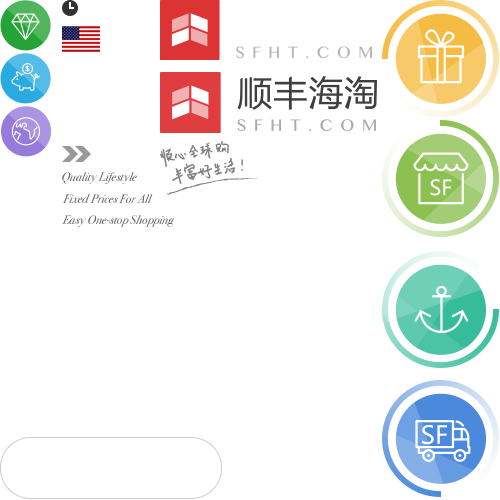
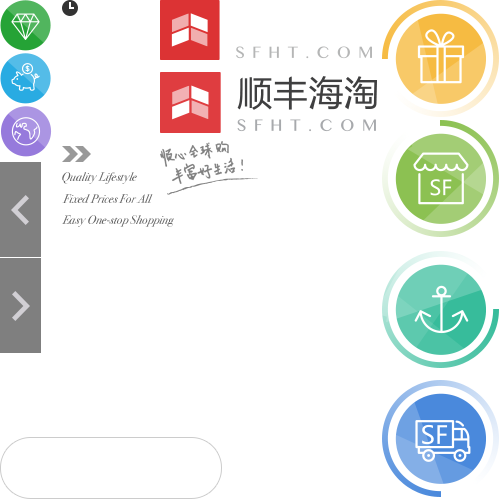
[dev]slide的功能

Changed region(s): [[0.0, 0.3, 0.09, 0.72], [0.12, 0.03, 0.21, 0.12]]

diff --git a/app/scripts/widget/sf.b2c.mall.widget.slide.js b/app/scripts/widget/sf.b2c.mall.widget.slide.js
@@ -1,0 +1,109 @@
+define(
+  'sf.b2c.mall.widget.slide',
+
+  [
+    'jquery',
+    'can'
+  ],
+
+  function ($, can) {
+    return can.Control.extend({
+
+      init: function (element, options) {
+        this.options.sliderIndex = 0;
+        this.render(this.options);
+      },
+
+      /**
+       * @description 向前浏览banner
+       */
+      sliderPreving: function(){
+        this.options.sliderIndex--;
+
+        if(this.options.sliderIndex < 0){
+          var length = this.element.find('.slider-img li').length;
+          this.options.sliderIndex = length-1;
+        }
+
+        this.sliderSwitch();
+      },
+
+      /**
+       * @description 向后浏览banner
+       */
+      sliderNexting: function(){
+        this.options.sliderIndex++;
+
+        var length = this.element.find('.slider-img li').length;
+        if(this.options.sliderIndex > length-1){
+          this.options.sliderIndex = 0;
+        }
+
+        this.sliderSwitch();
+      },
+
+      /**
+       * @description 切换banner的内容
+       */
+      sliderSwitch: function(){
+        this.element.find('.slider-num li').removeClass('active').eq(this.options.sliderIndex).addClass("active");
+        this.element.find('.slider-img li').removeClass('active').eq(this.options.sliderIndex).addClass("active");
+      },
+
+      hoverOver: function (element, event) {
+        this.element.find('.slider .btn-prev').stop(true, false).animate({ left:  0, opacity: 1 }, 500);
+        this.element.find('.slider .btn-next').stop(true, false).animate({ right: 0, opacity: 1 }, 500);
+        clearInterval(this.options.silderTimer);
+      },
+
+      hoverOut: function (element, event) {
+        this.element.find('.slider .btn-prev').stop(true, false).animate({ left:  '-100px', opacity: 0 }, 500);
+        this.element.find('.slider .btn-next').stop(true, false).animate({ right: '-100px', opacity: 0 }, 500);
+        this.options.silderTimer=setInterval(_.bind(this.sliderNexting, this),5000);
+      },
+
+      '.slider .btn-prev click': function (element, event) {
+        this.sliderPreving();
+      },
+
+      '.slider .btn-next click': function (element, event) {
+        this.sliderNexting();
+      },
+
+      '.slider-num li click': function (element, event) {
+        this.options.sliderIndex = this.element.find('.slider-num li').index(element);
+        this.sliderSwitch();
+        clearInterval(this.options.silderTimer);
+      },
+
+      template: function () {
+        return  '<div class="slider">' +
+                  '<ul class="slider-img">' +
+                    '{{#imgs}}' +
+                    '<li><a href="{{url}}" style="background-image: url({{imgUrl}})"></a></li>' +
+                    '{{/imgs}}' +
+                  '</ul>' +
+                  '<ul class="slider-num">'+
+                    '{{#imgs}}' +
+                      '<li><a href="###"></a></li>' +
+                    '{{/imgs}}' +
+                  '</ul>' +
+                  '<div class="pm">' +
+                    '<a href="###" class="btn btn-prev">向前</a>' +
+                    '<a href="###" class="btn btn-next">向后</a>' +
+                  '</div>' +
+                '</div>'
+      },
+
+      render: function () {
+        // this.element.html(this.options.tpl, this.options);
+        var template = can.view.mustache(this.template())
+        this.element.html(template(this.options));
+
+        this.options.silderTimer = setInterval(_.bind(this.sliderNexting, this), 5000);
+        this.element.hover(_.bind(this.hoverOver, this), _.bind(this.hoverOut, this));
+        this.element.find('.slider-img li').eq(0).addClass('active');
+        this.element.find('.slider-num li').eq(0).addClass('active');
+      }
+    });
+  })

diff --git a/app/css/style.css b/app/css/style.css
@@ -9,7 +9,7 @@
 .nav li{
 	float: left;
 	font-size: 18px;
-	
+
 }
 .nav-c1{
 	margin-left: -40px;
@@ -31,6 +31,7 @@
 .nav-c2 .icon{
 	margin-left: 9px;
 	vertical-align: -10px;
+	*vertical-align: -5px;
 }
 
 /*头部*/
@@ -127,12 +128,86 @@
 /*slider*/
 .slider{
 	margin-bottom: 65px;
+	position: relative;;
 }
-.slider li a{
+.slider .pm{
+	height: 420px;
+	position: relative;
+}
+.slider-img{
+	position: absolute;
+	width: 100%;
+	height: 420px;
+	left: 0;
+	top: 0;
+}
+.slider-img li{
+	position: absolute;
+	width: 100%;
+	opacity: 0;
+	filter: alpha(opacity=0);
+	-webkit-transition: opacity 1s;
+	-moz-transition: opacity 1s;
+	-ms-transition: opacity 1s;
+	transition: opacity 1s;
+}
+.slider-img .active{
+	opacity: 1;
+	filter: alpha(opacity=100);
+}
+.slider-img li a{
 	display: block;
 	height: 420px;
 	background-position: center;
 	background-repeat: no-repeat;
+}
+.slider-img img{
+	width: 100%;
+}
+.slider-num{
+	text-align: center;
+	width: 100%;
+	top: 396px;
+	position: absolute;
+	left: 0;
+	z-index: 2;
+}
+.slider-num li{
+	display: inline-block;
+	*display: inline;
+	*zoom:1;
+	margin: 0 2px;
+}
+.slider-num a{
+	display: block;
+	width: 30px;
+	height: 0;
+	padding-top: 4px;
+	overflow: hidden;
+	background: #fff;
+	opacity: 0.5;
+	filter: alpha(opacity=50);
+}
+.slider-num .active a{
+	opacity: 1;
+	filter: alpha(opacity=100);
+}
+.slider .btn{
+	position: absolute;
+	z-index: 2;
+	top: 151px;
+}
+.slider .btn-prev{
+	left: -100px;
+	opacity: 0;
+	filter: alpha(opacity=0);
+
+}
+.slider .btn-next{
+	right: -100px;
+	opacity: 0;
+	filter: alpha(opacity=0);
+
 }
 
 /*product*/
@@ -155,6 +230,7 @@
 	padding: 0 7px 4px;
 	margin-right: 39px;
 	font-size: 18px;
+
 }
 .product-tab li:hover{
 	border-bottom: 4px solid #DD3E3F;
@@ -175,6 +251,10 @@
 .product-list li:hover .product-r3{
 	background: #DD3E3F;
 	color: #fff;
+	-webkit-transition: all 0.5s;
+	-moz-transition: all 0.5s;
+	-ms-transition: all 0.5s;
+	transition: all 0.5s;
 }
 .product-list li:hover .product-r3 strong{
 	color: #fff;
@@ -237,7 +317,7 @@
 	font-size: 24px;
 }
 .product-r3c1 del{
-	
+
 	color:#949494;
 	font-size: 14px;
 }

diff --git a/app/scripts/page/sf.b2c.mall.page.main.js b/app/scripts/page/sf.b2c.mall.page.main.js
@@ -6,14 +6,17 @@ require(
     'sf.b2c.mall.component.header',
     'sf.b2c.mall.component.footer',
     'sf.b2c.mall.component.limitedtimesale',
-    'sf.b2c.mall.component.rapidseabuy'
+    'sf.b2c.mall.component.rapidseabuy',
+    'sf.b2c.mall.widget.slide'
   ],
 
-  function(can, Header, Footer, LimitedTimeSale, RapidSeaBuy) {
+  function(can, Header, Footer, LimitedTimeSale, RapidSeaBuy, SFSlide) {
 
     var home = can.Control.extend({
 
       init: function(element, options) {
+        this.component = {};
+
         this.render();
         this.supplement();
       },
@@ -22,6 +25,14 @@ require(
 
         //new Header('.sf-b2c-mall-header');
         new Footer('.sf-b2c-mall-footer');
+
+        this.component.slide = new SFSlide('.sf-b2c-mall-main-slider', {
+          imgs: [
+            {imgUrl: 'img/banner1.jpg', url: 'http://www.google.com'},
+            {imgUrl: 'img/banner2.jpg', url: 'http://www.baidu.com'}
+          ]
+        });
+
         new LimitedTimeSale('.sf-b2c-mall-limitedtimesale');
         new RapidSeaBuy('.sf-b2c-mall-rapidseabuy');
       },

diff --git a/app/css/reset.css b/app/css/reset.css
@@ -22,6 +22,7 @@ a,a:hover{color:#333;}
 img{vertical-align: middle;}
 .fl{float:left;}
 .fr{float:right;}
+.clearfix:before,
 .clearfix:after{content:'';display:table; clear:both;}
 .clearfix{*zoom:1;}
 /*icon*/
@@ -175,10 +176,24 @@ img{vertical-align: middle;}
 	border-radius: 30px;
 	border:1px solid #ccc;
 	background: #fff;
-	*background: url(../img/icon.png) no-repeat 0 -437px;
-	*border: none;
-	*width: 222px;
-	*height: 62px;
+	background: url(../img/icon.png) no-repeat 0 -437px \9;
+	border: none \9;
+	width: 222px \9;
+	height: 62px \9;
+}
+.btn-prev,
+.btn-next{
+	width: 41px;
+	height: 95px;
+	background: url(../img/icon.png) no-repeat;
+	text-indent: -999em;
+
+}
+.btn-prev{
+	background-position: 0 -162px;
+}
+.btn-next{
+	background-position: 0 -258px;
 }
 
 body{

diff --git a/app/index.html b/app/index.html
@@ -13,11 +13,7 @@
   <div class="sf-b2c-mall-header"></div>
 
   <div class="pb">
-    <div class="slider">
-      <ul>
-        <li><a href="" style="background-image: url(img/banner.jpg)"></a></li>
-      </ul>
-    </div>
+    <div class="sf-b2c-mall-main-slider"></div>
     <div class="pm">
       <!--限时特卖-->
       <div class="sf-b2c-mall-limitedtimesale"></div>
@@ -33,8 +29,9 @@
 
   <!--尾部-->
   </div>
+
   <script src="bower_components/requirejs/require.js"></script>
-  <script src="scripts/base/sf.web.ver1.0.build1418273546702.js"></script>
+  <script src="scripts/base/sf.web.ver1.0.build1418562440578.js"></script>
   <script src="scripts/sf.b2c.mall.require.config.js"></script>
   <script src="scripts/page/sf.b2c.mall.page.main.js"></script>
 

diff --git a/app/scripts/sf.b2c.mall.require.config.js b/app/scripts/sf.b2c.mall.require.config.js
@@ -3,6 +3,7 @@ requirejs.config({
     'sf.b2c.mall.component.header': 'scripts/component/sf.b2c.mall.component.header',
     'sf.b2c.mall.component.footer': 'scripts/component/sf.b2c.mall.component.footer',
     'sf.b2c.mall.component.limitedtimesale': 'scripts/component/sf.b2c.mall.component.limitedtimesale',
-    'sf.b2c.mall.component.rapidseabuy': 'scripts/component/sf.b2c.mall.component.rapidseabuy'
+    'sf.b2c.mall.component.rapidseabuy': 'scripts/component/sf.b2c.mall.component.rapidseabuy',
+    'sf.b2c.mall.widget.slide': 'scripts/widget/sf.b2c.mall.widget.slide'
   }
 });
